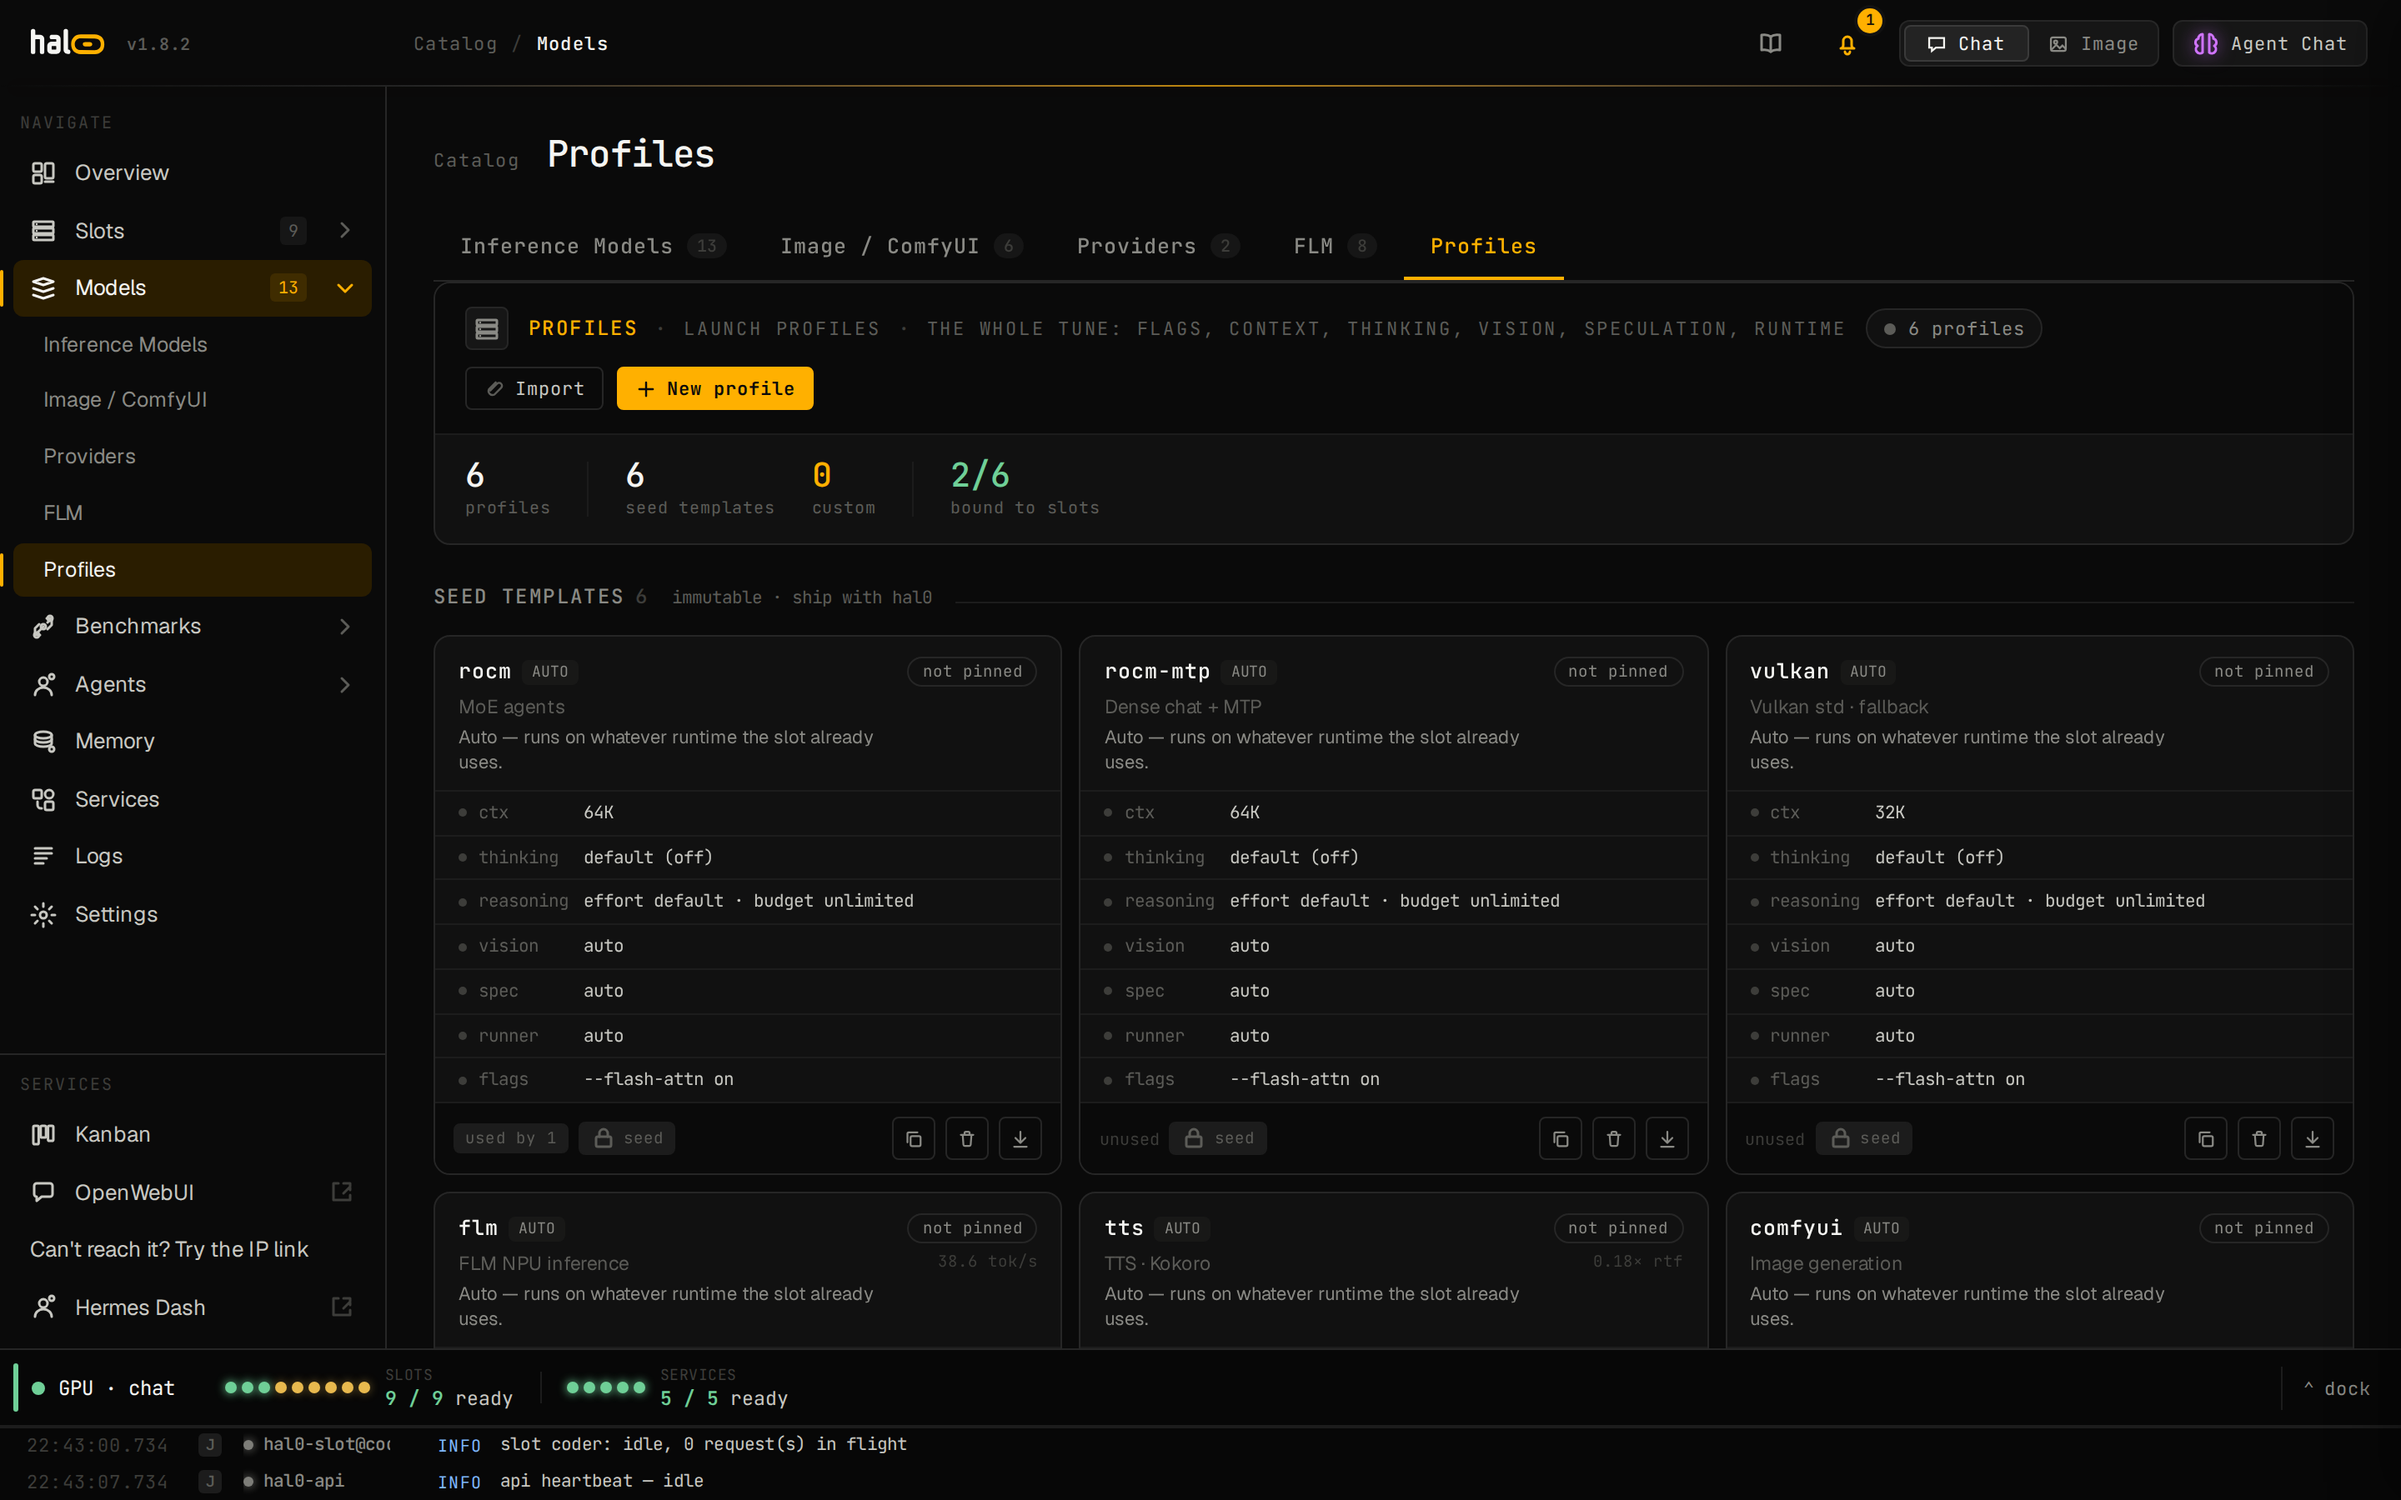
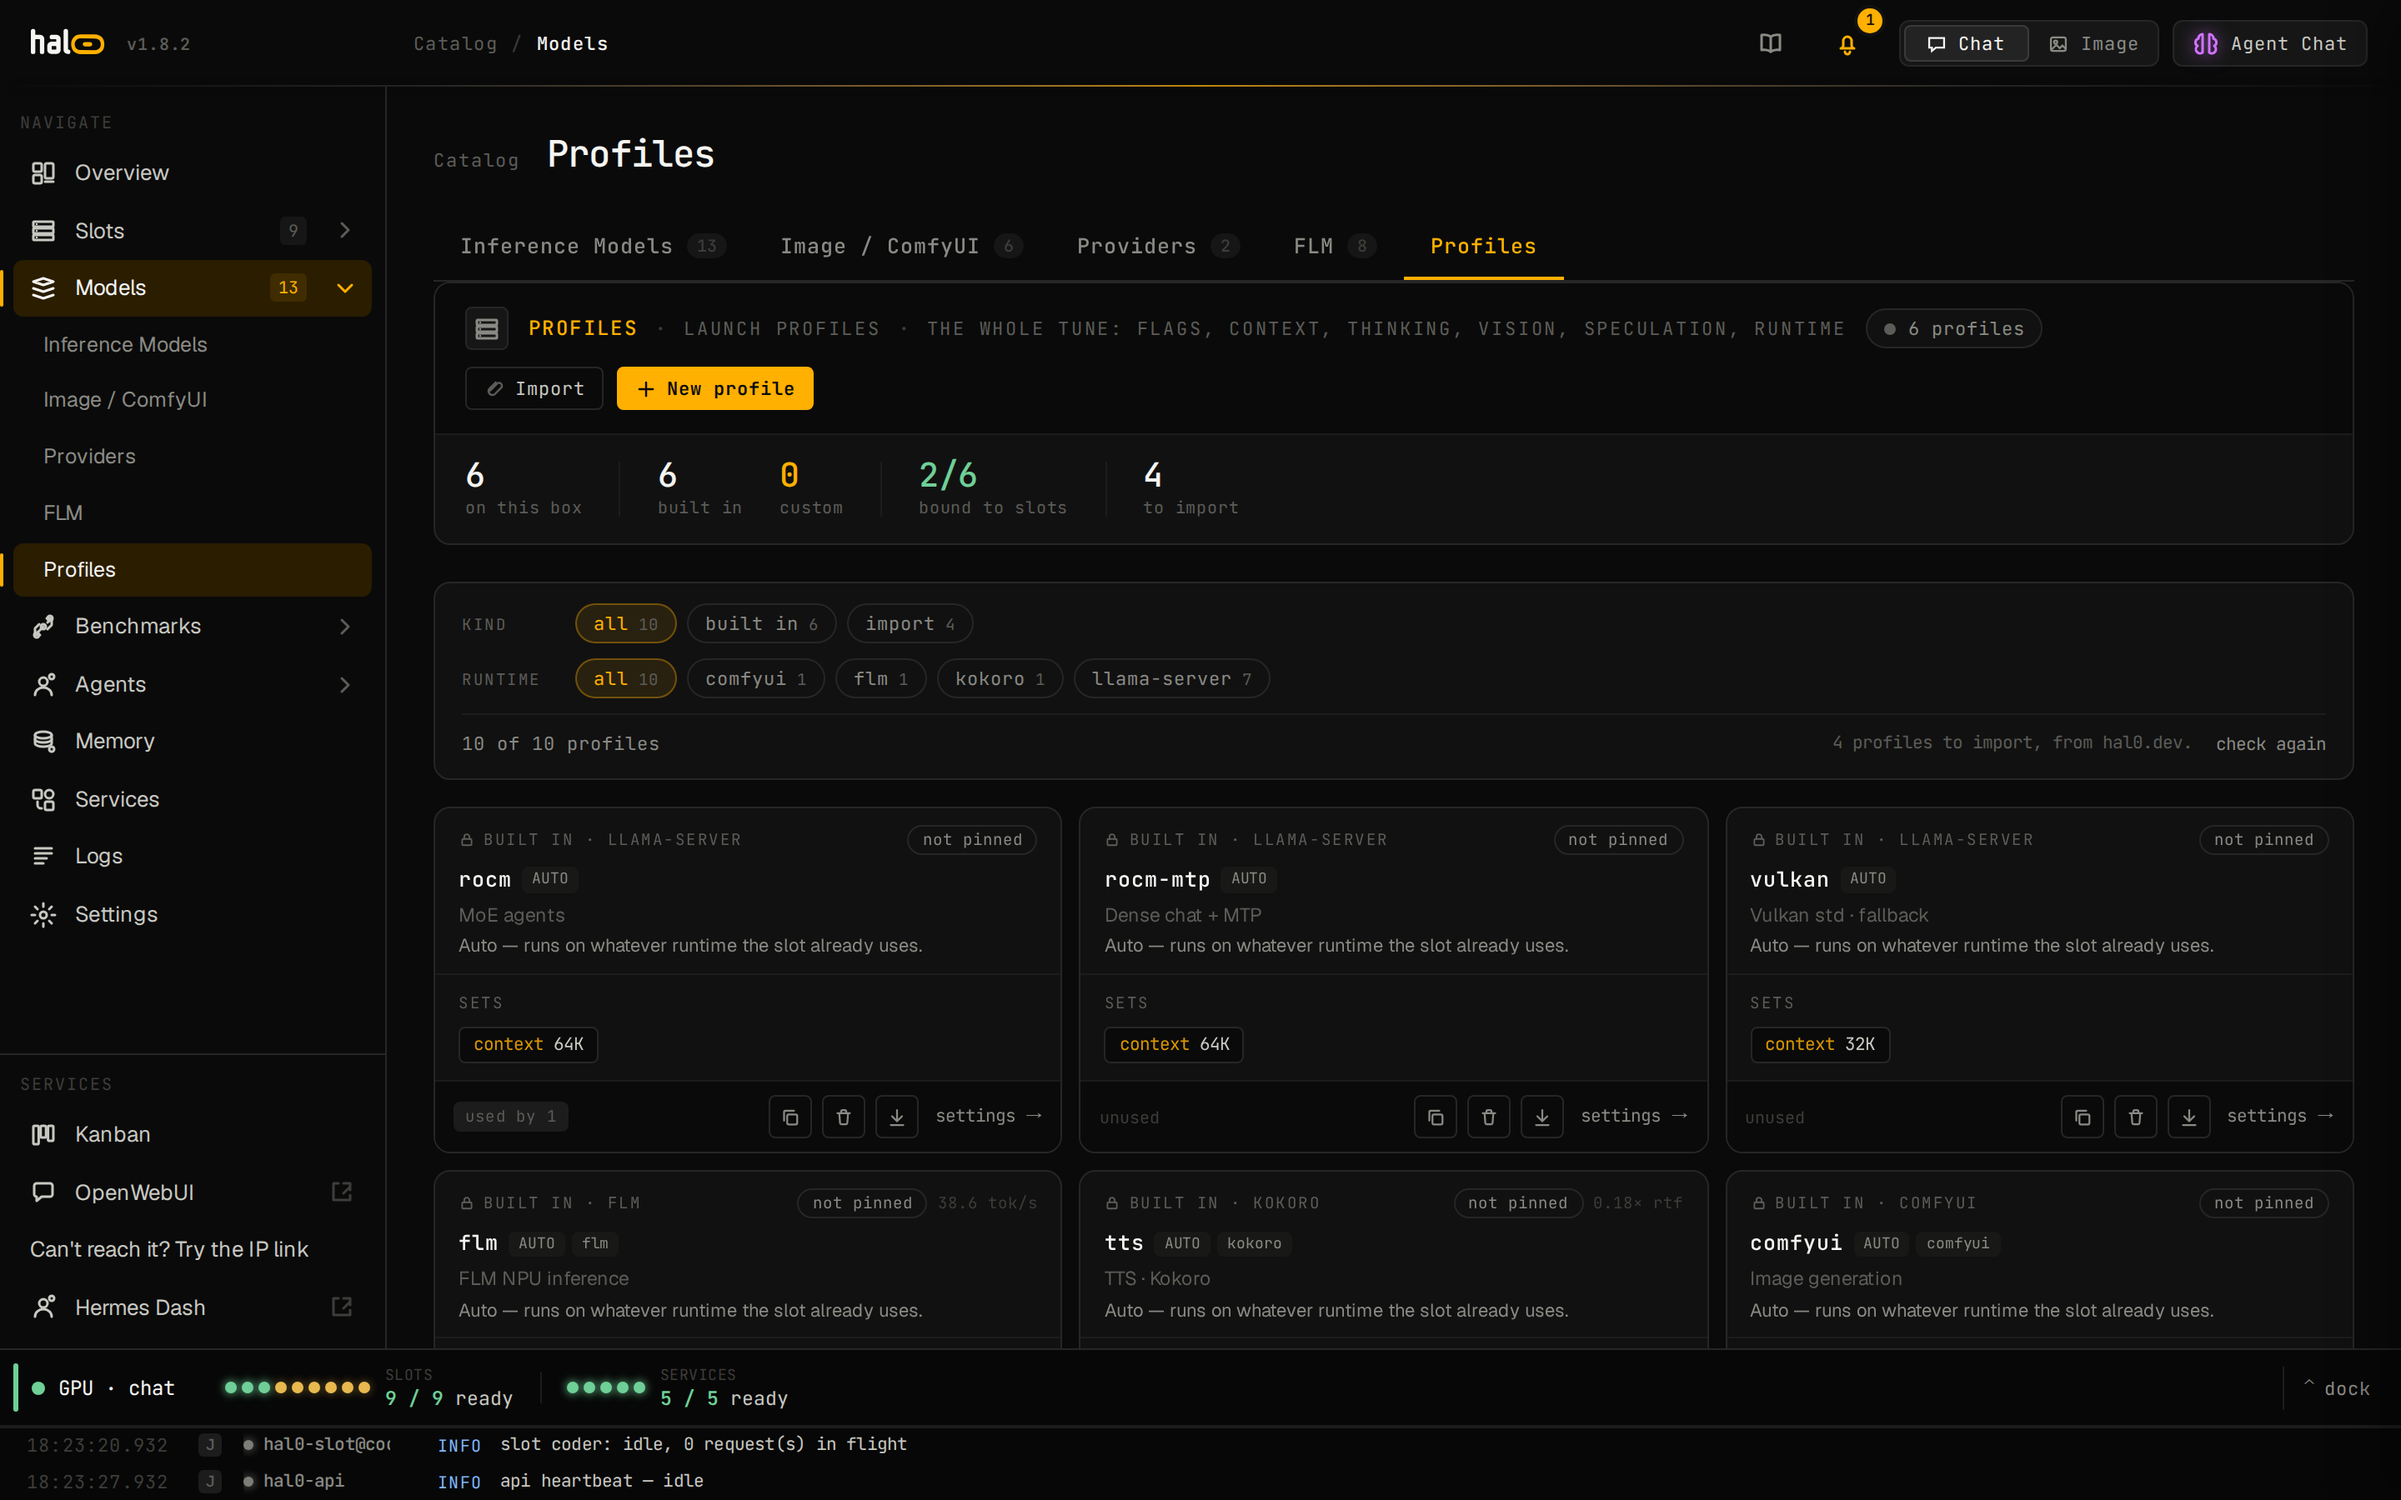
feat(api): honour a catalog refresh at most once every 30 seconds; refresh the Profiles screenshot
GET /api/profile-addons takes no credential, so refresh=true is now served
from the copy just read when the index was fetched in the last 30 seconds.

docs/screenshots/models-profiles.png shows the gallery layout; the capture
overlay serves the committed community/addons/ rows as the catalog.

Refs #4137

diff --git a/ui/scripts/screenshots/showcase/core.ts b/ui/scripts/screenshots/showcase/core.ts
@@ -18,6 +18,8 @@
  * consulted, so the paths this file owns are opted out of it through
  * `window.__hal0MockPassthrough` and then routed here.
  */
+import fs from 'node:fs'
+import path from 'node:path'
 import type { Page, Route } from '@playwright/test'
 
 import { MOCK_DATA } from '../../../tests/e2e/fixtures/mock-data'
@@ -557,10 +559,16 @@ export async function installCore(page: Page) {
     return json(route, activity(w))
   })
   await page.route('**/api/system-stats', (route) => json(route, systemStats()))
+  // Import catalog: the addons hal0 publishes, read from community/addons/
+  // (the same files a box falls back to), shown as the site's index.
+  await page.route('**/api/profile-addons*', (route) => json(route, profileAddons()))
   // Profiles: the e2e seed set, with its per-profile speed figures cleared
   // except the two README.md "Benchmarks" quotes (FLM gemma3:1b ~38.6 tok/s,
   // Kokoro ~0.18 real-time factor); the others have no published source.
   const sourced: Record<string, { tps?: number; rtf?: number }> = { flm: { tps: 38.6 }, tts: { rtf: 0.18 } }
+  // The API reports a runtime family for every profile; the e2e seed set
+  // predates the field, so the three single-engine seeds get theirs here.
+  const family: Record<string, string> = { flm: 'flm', tts: 'kokoro', comfyui: 'comfyui' }
   await page.route('**/api/profiles', (route) =>
     route.request().method() !== 'GET'
       ? route.fallback()
@@ -568,10 +576,41 @@ export async function installCore(page: Page) {
           route,
           (MOCK_DATA.profiles ?? []).map((p: any) => ({
             ...p,
+            runtime_family: p.runtime_family ?? family[p.name] ?? 'llama-server',
             tps: sourced[p.name]?.tps ?? null,
             rtf: sourced[p.name]?.rtf ?? null,
           })),
         ),
   )
   await page.route(/\/api\/stats(\?|$)/, (route) => json(route, usageStats()))
+}
+
+/** GET /api/profile-addons, built from the committed community/addons/ files. */
+function profileAddons() {
+  const dir = path.resolve(process.cwd(), '..', 'community', 'addons')
+  const index = JSON.parse(fs.readFileSync(path.join(dir, 'index.json'), 'utf8'))
+  return {
+    source: 'remote',
+    url: 'https://hal0.dev/profiles/index.json',
+    fetched_at: '2026-11-28T18:00:00Z',
+    error: null,
+    addons: index.addons.map((row: any) => {
+      const envelope = JSON.parse(fs.readFileSync(path.join(dir, row.file), 'utf8'))
+      return {
+        name: row.name,
+        title: row.title,
+        description: row.description,
+        runtime_family: row.runtime_family,
+        runner: row.runner,
+        runner_stripped: false,
+        checksum: row.checksum,
+        min_hal0_version: row.min_hal0_version,
+        installed: false,
+        profile: envelope.profile,
+        envelope,
+        blocked: null,
+        first_party: true,
+      }
+    }),
+  }
 }

diff --git a/src/hal0/profiles/addon_catalog.py b/src/hal0/profiles/addon_catalog.py
@@ -50,6 +50,11 @@ _OFF_VALUES = frozenset({"off", "none", "0", "false", "disabled"})
 CACHE_TTL_S = 3600.0
 FAILURE_TTL_S = 60.0
 
+#: A requested refresh is honoured at most this often. The route takes no
+#: credential, so without a floor any client on the network could make the
+#: box fetch as fast as it can ask.
+MIN_REFRESH_INTERVAL_S = 30.0
+
 FETCH_TIMEOUT_S = 5.0
 MAX_INDEX_BYTES = 512 * 1024
 MAX_ENVELOPE_BYTES = 64 * 1024
@@ -91,7 +96,9 @@ class _Snapshot:
     error: str | None = None
 
 
-_cache: dict[str, tuple[float, _Snapshot]] = {}
+#: Per index URL: when the entry expires, when it was fetched (both on the
+#: monotonic clock), and the snapshot.
+_cache: dict[str, tuple[float, float, _Snapshot]] = {}
 _cache_lock = asyncio.Lock()
 
 
@@ -206,8 +213,13 @@ async def _snapshot(*, refresh: bool, fetch: Fetch | None) -> _Snapshot:
         return _bundled(url=None, error=None)
     async with _cache_lock:
         cached = _cache.get(url)
-        if cached is not None and not refresh and time.monotonic() < cached[0]:
-            return cached[1]
+        now = time.monotonic()
+        if cached is not None:
+            expires, fetched, snap = cached
+            if refresh and now - fetched < MIN_REFRESH_INTERVAL_S:
+                return snap
+            if not refresh and now < expires:
+                return snap
         try:
             snap = await _fetch_remote(url, fetch or _http_fetch)
             ttl = CACHE_TTL_S
@@ -218,7 +230,8 @@ async def _snapshot(*, refresh: bool, fetch: Fetch | None) -> _Snapshot:
             )
             snap = _bundled(url=url, error=str(exc))
             ttl = FAILURE_TTL_S
-        _cache[url] = (time.monotonic() + ttl, snap)
+        done = time.monotonic()
+        _cache[url] = (done + ttl, done, snap)
         return snap
 
 

diff --git a/tests/profiles/test_addon_catalog.py b/tests/profiles/test_addon_catalog.py
@@ -111,13 +111,35 @@ async def test_fetch_switched_off_serves_bundled_without_a_request(
     assert catalog["error"] is None
 
 
-async def test_fetched_catalog_is_cached_until_refresh() -> None:
+async def test_fetched_catalog_is_cached_until_refresh(monkeypatch: pytest.MonkeyPatch) -> None:
     site = Site()
+    clock = [1000.0]
+    monkeypatch.setattr(addon_catalog.time, "monotonic", lambda: clock[0])
     await _load(site)
     first = len(site.calls)
+    clock[0] += addon_catalog.CACHE_TTL_S - 1
     await _load(site)
     assert len(site.calls) == first
 
+    await _load(site, refresh=True)
+    assert len(site.calls) == 2 * first
+
+
+async def test_refresh_is_honoured_at_most_once_per_interval(
+    monkeypatch: pytest.MonkeyPatch,
+) -> None:
+    """The route is open to the network, so a refresh loop must not become a fetch loop."""
+    site = Site()
+    clock = [1000.0]
+    monkeypatch.setattr(addon_catalog.time, "monotonic", lambda: clock[0])
+    await _load(site)
+    first = len(site.calls)
+
+    for _ in range(5):
+        await _load(site, refresh=True)
+    assert len(site.calls) == first
+
+    clock[0] += addon_catalog.MIN_REFRESH_INTERVAL_S
     await _load(site, refresh=True)
     assert len(site.calls) == 2 * first
 

diff --git a/src/hal0/api/routes/profile_addons.py b/src/hal0/api/routes/profile_addons.py
@@ -47,7 +47,7 @@ async def list_profile_addons(refresh: bool = False) -> dict[str, Any]:
         }
 
     The published index is fetched at most once an hour; ``refresh=true``
-    fetches it now. When it cannot be reached the addons this release ships
+    fetches it now, unless it was fetched in the last 30 seconds. When it cannot be reached the addons this release ships
     are returned with ``source: "bundled"`` and the reason in ``error``. This
     route never fails because the index did.
     """

diff --git a/tests/api/test_profile_addons_route.py b/tests/api/test_profile_addons_route.py
@@ -79,6 +79,10 @@ def test_catalog_serves_the_published_index_and_refreshes_on_request(
 
     client.get("/api/profile-addons")
     assert len(calls) == 2
+    # A refresh straight after a fetch is served from the copy just read.
+    client.get("/api/profile-addons?refresh=true")
+    assert len(calls) == 2
+    monkeypatch.setattr(addon_catalog, "MIN_REFRESH_INTERVAL_S", 0.0)
     client.get("/api/profile-addons?refresh=true")
     assert len(calls) == 4
 
